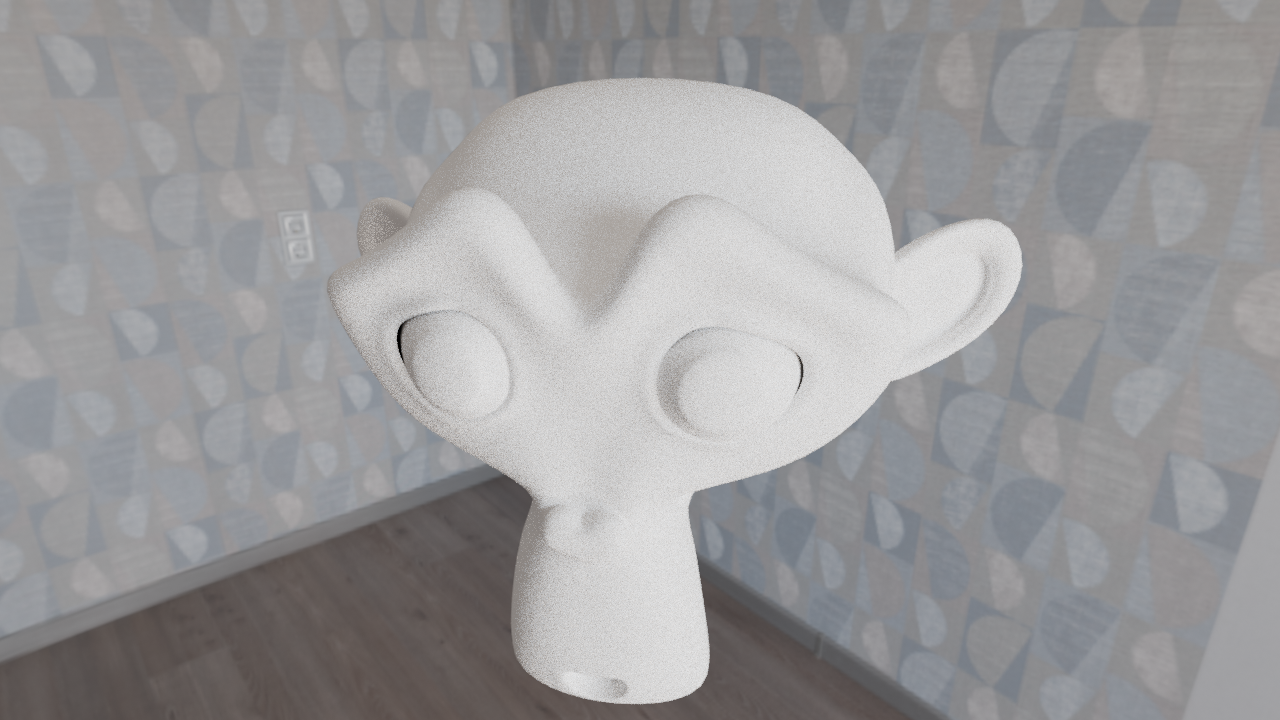
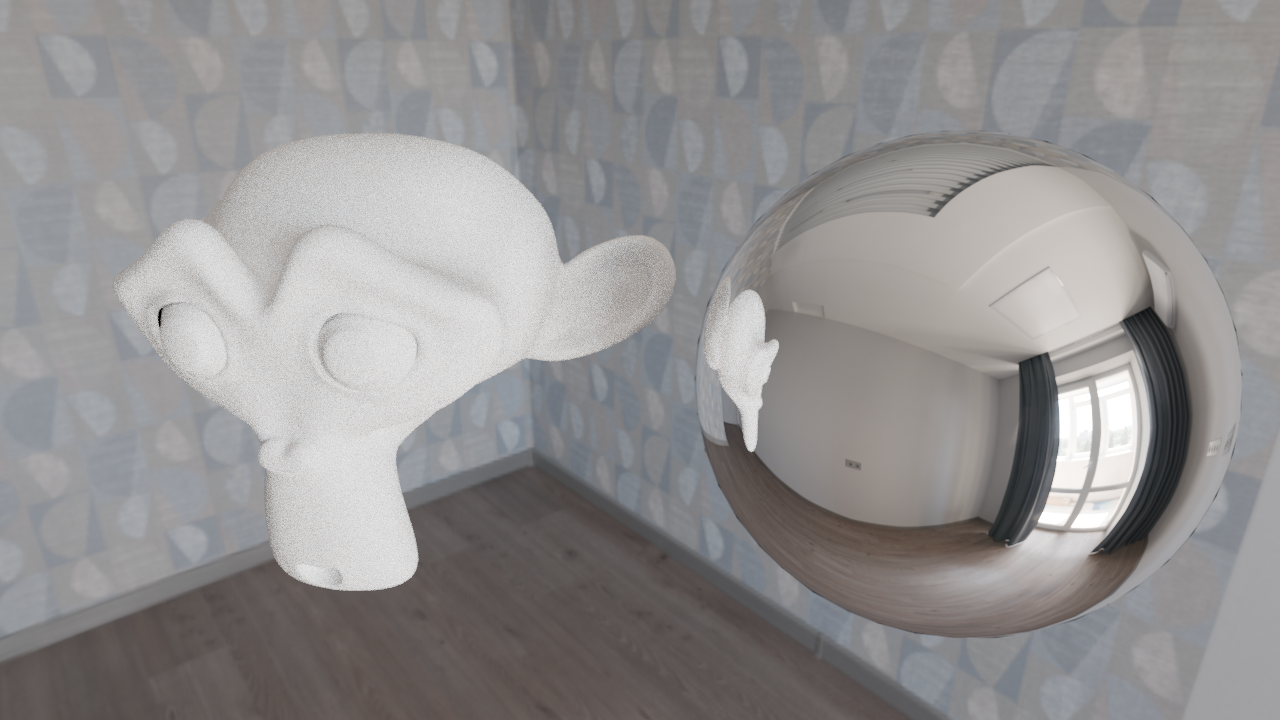
mixed materials

diff --git a/src/scene.rs b/src/scene.rs
@@ -5,7 +5,7 @@ use nalgebra::DMatrix;
 
 use crate::bsdf::{Glossy, Lambertian, BSDF, UP};
 use crate::camera::Camera;
-use crate::geom::{normalize, BVHTriangle, BvhScene, Object};
+use crate::geom::{normalize, BVHTriangle, BvhScene, Material, Object};
 use crate::rng::{rand_direction, rand_hemisphere};
 use crate::texture::{equirectangular, Texture};
 use crate::{bsdf, rad, Color, Matrix3f, Matrix4f, Ray, Vector3f};
@@ -75,6 +75,7 @@ impl Scene {
         if let Some((dist, tri_idx)) = bvh.intersects(ray) {
             let new_origin = ray.origin + ray.direction * dist;
 
+            let material = &bvh.materials[tri_idx];
             let tri = &bvh.triangles[tri_idx];
             let (alpha, beta) = tri.barycentric(new_origin);
 
@@ -113,8 +114,12 @@ impl Scene {
             // self.sample(&ray, max_bounces - 1)
 
             // bsdf based rendering
-            // let bsdf = Lambertian { albedo: 0.5 };
-            let bsdf = Lambertian { albedo: 0.9 };
+            let bsdf: Box<dyn BSDF> = match material {
+                Material::Diffuse(albedo) => Box::new(Lambertian { albedo: *albedo }),
+                Material::Glossy => Box::new(Glossy {}),
+            };
+            // let bsdf = Glossy {};
+            // let bsdf = Lambertian { albedo: 0.9 };
 
             // enter normal space
             let reflected = to_normal * ray.direction;
@@ -166,6 +171,7 @@ impl Scene {
 
         let mut triangles = Vec::new();
         let mut normals = Vec::new();
+        let mut materials = Vec::new();
 
         for object in &self.objects {
             let object_to_world = object.transform.matrix;
@@ -210,8 +216,12 @@ impl Scene {
 
                 normals.push((a, b, c));
             }
+
+            for triangle in &object.mesh.triangles {
+                materials.push(object.material);
+            }
         }
 
-        BvhScene::new(triangles, normals)
+        BvhScene::new(triangles, normals, materials)
     }
 }

diff --git a/src/main.rs b/src/main.rs
@@ -44,18 +44,18 @@ fn camera_transform(pos: Point3d) -> Transform {
 }
 
 fn real_main() -> Result<()> {
-    let mut object = objfile::load_obj("smooth-monkey.obj")?;
-    object.transform = Transform::new(
-        Point3d::new(0.0, 0.0, 0.0),
+    let mut object1 = objfile::load_obj("sphere.obj", geom::Material::Glossy)?;
+    object1.transform = Transform::new(
+        Point3d::new(0.0, 1.0, 0.0),
         Quaternion::from_euler_angles(0.0, 0.0, PI / 2.0),
-        Vector3::new(1.0, 1.0, 1.0),
+        Vector3::new(0.8, 0.8, 0.8),
     );
-    println!("{:?}", object);
 
-    println!(
-        "Loaded object with {} vertices and {} triangles",
-        object.mesh.vertices.len(),
-        object.mesh.triangles.len()
+    let mut object2 = objfile::load_obj("smooth-monkey.obj", geom::Material::Glossy)?;
+    object2.transform = Transform::new(
+        Point3d::new(0.0, -1.0, 0.0),
+        Quaternion::from_euler_angles(0.0, 0.0, PI / 2.0),
+        Vector3::new(0.8, 0.8, 0.8),
     );
 
     let hdri = exr::image::read::read()
@@ -99,8 +99,8 @@ fn real_main() -> Result<()> {
 
     println!("Loaded HDRI with resolution {}x{}", hdri_width, hdri_height);
 
-    let viewport_width = 1280;
-    let viewport_height = 720;
+    let viewport_width = 1920;
+    let viewport_height = 1080;
     let aspect = viewport_width as f32 / viewport_height as f32;
 
     let fov = rad(50.0);
@@ -112,12 +112,12 @@ fn real_main() -> Result<()> {
         perspective(fov as f32, aspect),
     );
 
-    let mut scene = Scene::new(camera, vec![object], hdri_rgb);
+    let mut scene = Scene::new(camera, vec![object1, object2], hdri_rgb);
 
     println!("Starting render");
 
     scene.build_bvh();
-    let samples = 512;
+    let samples = 16;
     let bar = ProgressBar::new(samples as u64);
 
     let mut fb: DMatrix<_> = DMatrix::zeros(viewport_width, viewport_height);

diff --git a/src/geom.rs b/src/geom.rs
@@ -11,6 +11,7 @@ use crate::{Affine, Matrix4d, Matrix4f, Point3d, Point3f, Quaternion, Ray, Vecto
 pub struct Object {
     pub transform: Transform,
     pub mesh: Mesh,
+    pub material: Material,
 }
 
 impl Debug for Object {
@@ -158,10 +159,17 @@ impl BHShape<f32, 3> for BVHTriangle {
     }
 }
 
+#[derive(Debug, Clone, Copy)]
+pub enum Material {
+    Diffuse(f32),
+    Glossy,
+}
+
 pub struct BvhScene {
     bvh: Bvh<f32, 3>,
     pub triangles: Vec<BVHTriangle>,
     pub normals: Vec<(Vector3f, Vector3f, Vector3f)>,
+    pub materials: Vec<Material>,
 }
 
 // copy pasted from https://en.wikipedia.org/wiki/M%C3%B6ller%E2%80%93Trumbore_intersection_algorithm
@@ -208,6 +216,7 @@ impl BvhScene {
     pub fn new(
         mut triangles: Vec<BVHTriangle>,
         normals: Vec<(Vector3f, Vector3f, Vector3f)>,
+        materials: Vec<Material>,
     ) -> Self {
         let bvh = Bvh::build(&mut triangles);
 
@@ -215,6 +224,7 @@ impl BvhScene {
             bvh,
             triangles,
             normals,
+            materials,
         }
     }
 

diff --git a/src/objfile.rs b/src/objfile.rs
@@ -3,12 +3,12 @@ use std::{
     io::{BufRead, BufReader, Write},
 };
 
-use crate::geom::{Mesh, Object, Transform};
+use crate::geom::{Material, Mesh, Object, Transform};
 use nalgebra::{Point3, Vector3};
 
 // use crate::geom::Scene;
 
-pub fn load_obj(path: &str) -> anyhow::Result<Object> {
+pub fn load_obj(path: &str, material: Material) -> anyhow::Result<Object> {
     let file = File::open(path)?;
     let reader = BufReader::new(file);
 
@@ -71,6 +71,7 @@ pub fn load_obj(path: &str) -> anyhow::Result<Object> {
             normals,
             normal_triangles,
         },
+        material,
     })
 }
 

diff --git a/src/render.rs b/src/render.rs
@@ -50,7 +50,7 @@ pub fn sample_once(scene: &Scene) -> DMatrix<Color> {
             inv_direction: ray_dir_inv,
         };
 
-        let b = scene.sample(&ray, 8);
+        let b = scene.sample(&ray, 16);
         b
     }).collect();
 
